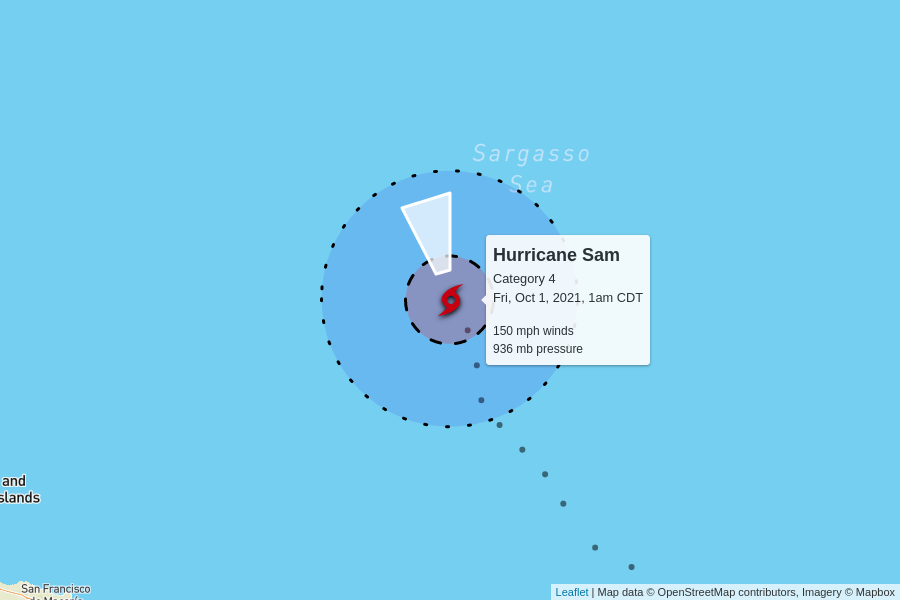
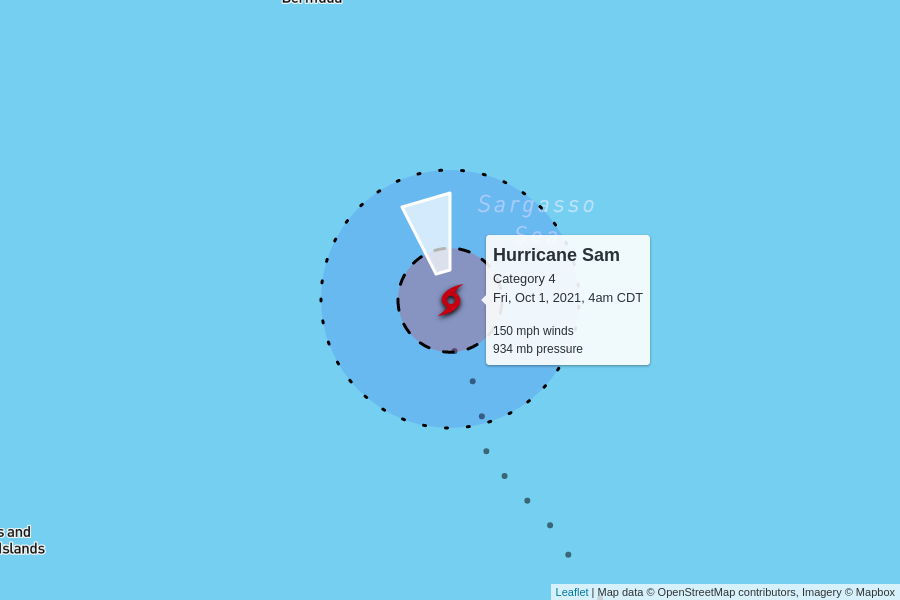
automatic update

diff --git a/docs/index.html b/docs/index.html
@@ -97,6 +97,50 @@
 
     <table>
       <tr>
+        <td colspan="6" class="storm category-4" >
+          <h2>
+            Hurricane Sam - Category 4
+            <p class="updated">last updated <span data-time>2021-10-01T09:00:00.000Z</span></p>
+          </h2>
+        </td>
+      </tr>
+      
+      <tr>
+        <th class="spacer"></th>
+        <th>wind speed</th>
+        <th>central pressure</th>
+        <th>movement</th>
+        <th>data (CSV)</th>
+        <th>National Hurricane Center</th>
+      </tr>
+      <tr>
+        <td class="spacer"></td>
+        <td>150 mph</td>
+        <td>934 mb</td>
+        <td>
+          17 mph to the north-northwest
+          <br/>
+          <span style="display: inline-block; font-size: 1.5em; transform: rotate(345deg);">↑</span>
+        </td>
+        <td><a href="https://raw.githubusercontent.com/mgwalker/atlantic-hurricanes/main/data/csv/AL182021.csv">AL182021.csv</a></td>
+        <td><a href="https://www.nhc.noaa.gov/archive/2021/SAM.shtml?">NHC advisories</a></td>
+      </tr>
+      <tr id="storm_AL182021" >
+        <td class="spacer">
+        <td colspan="5">
+          <figure>
+            <img src="AL182021.png">
+            <figcaption>
+              Map data &copy; <a href="https://www.openstreetmap.org/copyright">OpenStreetMap</a> contributors,
+              Imagery &copy; <a href="https://www.mapbox.com/">Mapbox</a> |
+              <a href="https://www.mapbox.com/map-feedback/" target="_blank">Improve this map</a>
+            </figcaption>
+          </figure>
+        </td>
+      </tr>
+      
+
+      <tr>
         <td colspan="6" class="storm category-0" >
           <h2>
             Tropical Storm Victor
@@ -130,50 +174,6 @@
         <td colspan="5">
           <figure>
             <img src="AL202021.png">
-            <figcaption>
-              Map data &copy; <a href="https://www.openstreetmap.org/copyright">OpenStreetMap</a> contributors,
-              Imagery &copy; <a href="https://www.mapbox.com/">Mapbox</a> |
-              <a href="https://www.mapbox.com/map-feedback/" target="_blank">Improve this map</a>
-            </figcaption>
-          </figure>
-        </td>
-      </tr>
-      
-
-      <tr>
-        <td colspan="6" class="storm category-4" >
-          <h2>
-            Hurricane Sam - Category 4
-            <p class="updated">last updated <span data-time>2021-10-01T06:00:00.000Z</span></p>
-          </h2>
-        </td>
-      </tr>
-      
-      <tr>
-        <th class="spacer"></th>
-        <th>wind speed</th>
-        <th>central pressure</th>
-        <th>movement</th>
-        <th>data (CSV)</th>
-        <th>National Hurricane Center</th>
-      </tr>
-      <tr>
-        <td class="spacer"></td>
-        <td>150 mph</td>
-        <td>936 mb</td>
-        <td>
-          16 mph to the north-northwest
-          <br/>
-          <span style="display: inline-block; font-size: 1.5em; transform: rotate(345deg);">↑</span>
-        </td>
-        <td><a href="https://raw.githubusercontent.com/mgwalker/atlantic-hurricanes/main/data/csv/AL182021.csv">AL182021.csv</a></td>
-        <td><a href="https://www.nhc.noaa.gov/archive/2021/SAM.shtml?">NHC advisories</a></td>
-      </tr>
-      <tr id="storm_AL182021" >
-        <td class="spacer">
-        <td colspan="5">
-          <figure>
-            <img src="AL182021.png">
             <figcaption>
               Map data &copy; <a href="https://www.openstreetmap.org/copyright">OpenStreetMap</a> contributors,
               Imagery &copy; <a href="https://www.mapbox.com/">Mapbox</a> |
